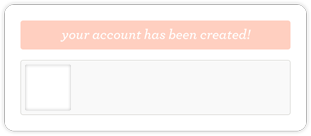
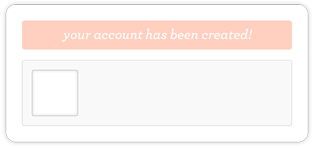
assets + spec for usernames on quick add

diff --git a/Docs/FunctionalSpec.md b/Docs/FunctionalSpec.md
@@ -679,21 +679,26 @@ Request should include an array of user objects (nested under ```users```) that 
 
 #### Design Stories
 - Top module (success, user info)
-   - 'top-info-container.png'
+   - 'top-info-container.png' (314 x 148)
    - place asset (inc. shadow) 4px down from status bar
    - user icon resized to 46px x 46px, placed underneath mask area of 'top-info-container.png'
-   - user name
-      - Archer Medium Italic, rgb(255,106,114), 20pt
-      - 10px to the right of user icon
-      - if location exists, baseline is 25px up from the bottom of the user icon
-      - if location does not exist, baseline is 6px up from the bottom of the user icon
+   - username
+      - Verlag Book, rgb(114,114,114), 18pt
+      - 11px to the right of user icon
+      - if location exists, baseline is 31px up from the bottom of the user icon
+      - if location does not exist, baseline is 24px up from the bottom of the user icon
+   - display name
+      - Proxima Nova Regular, rgb(167,167,167), 10pt
+      - 11px to right of user icon
+      - if location exists, baseline is 17px up from bottom of user icon
+      - if location does not exist, baseline is 10px up from the bottom of the user icon
    - location
-      - Proxima Nova Regular, rgb(143,143,143), 12pt
-      - 10px to right of user icon
-      - 6px up from bottom of user icon
+      - Proxima Nova Regular, rgb(167,167,167), 10pt
+      - 11px to right of user icon
+      - baseline is 3px up from bottom of user icon
    - edit button
       - 'edit-info.png' with active and inactive versions
-      - place asset (including shadow) 38px from right edge of screen
+      - place asset (including shadow) 35px from right edge of screen
       - vertically center inside gray 'info' area
 - 'style is better when shared!'
    - Archer Book Italic, 17pt, rgb(64,64,65)
@@ -716,18 +721,17 @@ Request should include an array of user objects (nested under ```users```) that 
    - user name
       - Verlag Book, rgb(114,114,114), 18pt
       - 10px from right edge of user icon
-      - if location exists, baseline is 18px up from bottom of user icon
+      - if location exists, baseline is 19px up from bottom of user icon
       - if location does not exist, text is vertically centered in cell
    - User Badge
       - use size "32_32.png" for 2x
       - use size "16_16.png" for 1x
       - 4px away from right edge of user name
       - bottom of asset is 2px below baseline of user name
-   - location
-   - description
+   - location and/or description
       - Proxima Nova Regular, 10pt, rgb (167,167,167)
-      - all caps
-      - baseline is 4px up from bottom of user icon
+      - normal case
+      - baseline is 5px up from bottom of user icon
    - checkbox
       - 'checkbox.png' with on and off states
       - 21px from right edge of screen, vertically centered in cell
